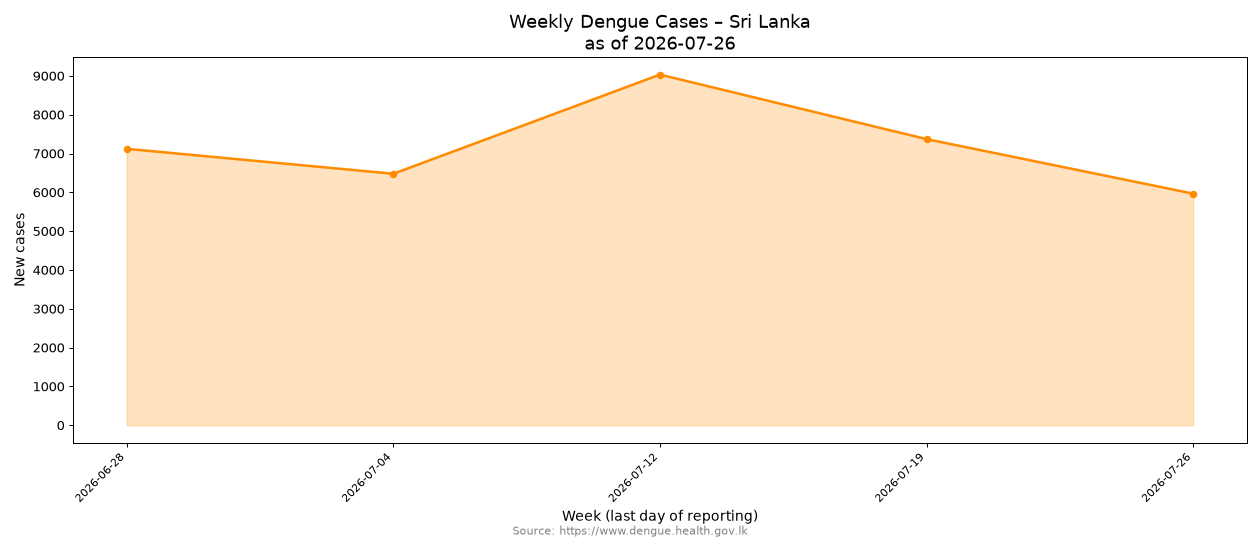
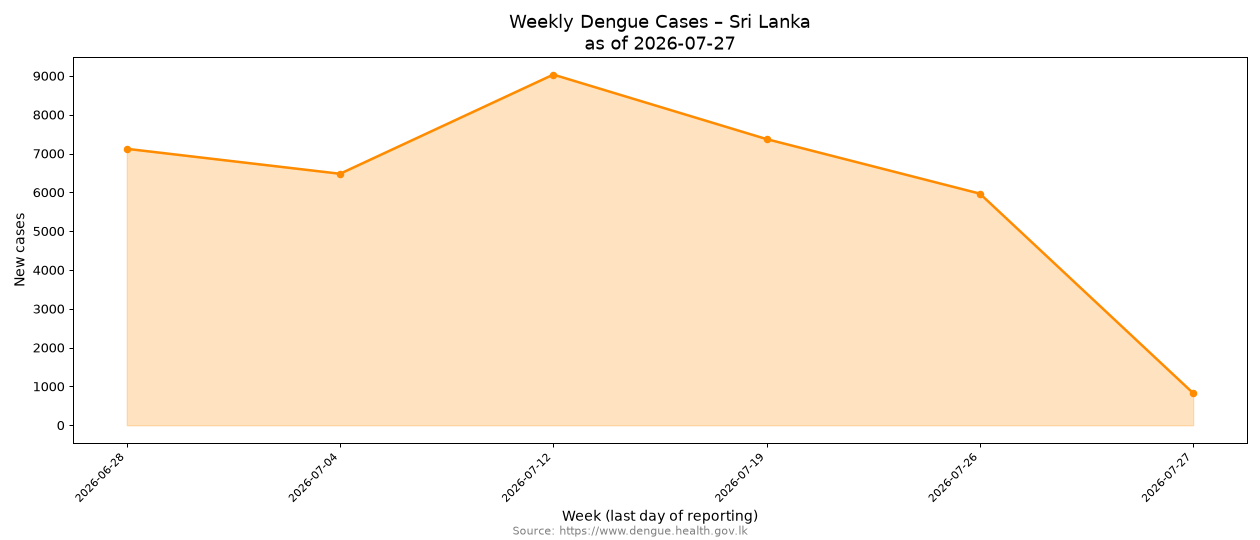
🤖 [pipeline.yml] 2026-07-28-0534

diff --git a/README.md b/README.md
@@ -287,6 +287,7 @@ As of 2026-07-19
 
 ### [National Dengue Control Unit - Daily Update](data/NDCUDaily)
 
+- [2026-07-27](data/NDCUDaily/2026/2026-07/2026-07-27)
 - [2026-07-26](data/NDCUDaily/2026/2026-07/2026-07-26)
 - [2026-07-25](data/NDCUDaily/2026/2026-07/2026-07-25)
 - [2026-07-24](data/NDCUDaily/2026/2026-07/2026-07-24)
